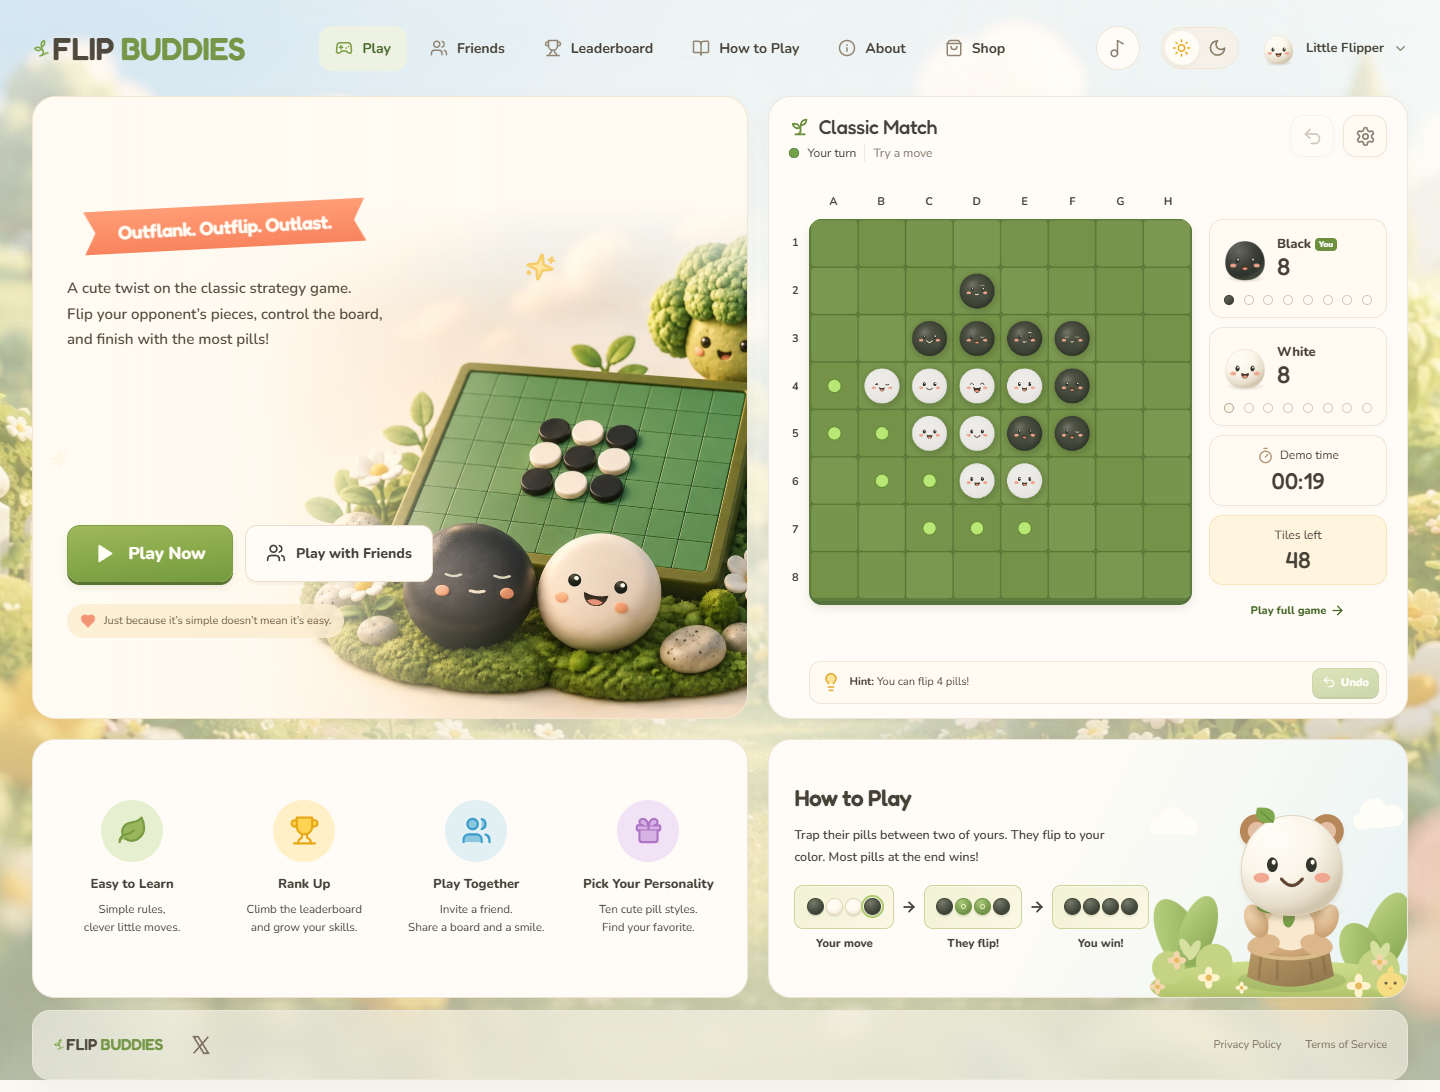
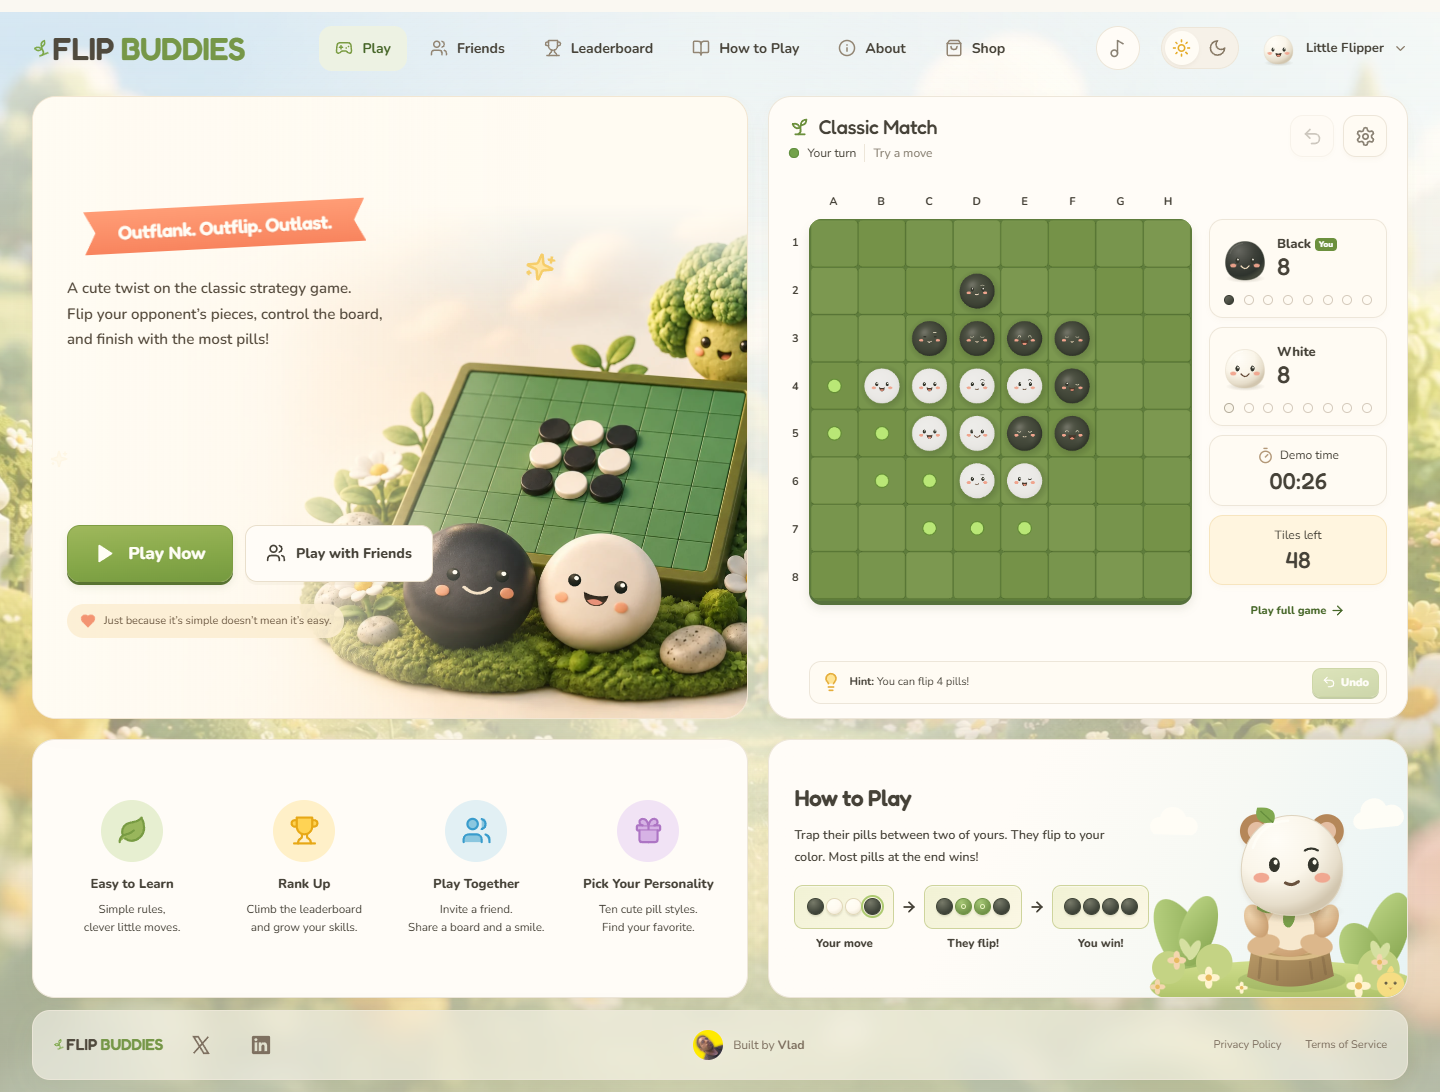
Restore Vlad footer credit and add LinkedIn link

diff --git a/src/components/SiteFooter.tsx b/src/components/SiteFooter.tsx
@@ -39,7 +39,22 @@ export default function SiteFooter({
             />
           </svg>
         </a>
+        <a
+          className="footer-x-link"
+          href="https://www.linkedin.com/in/vlachomir/"
+          target="_blank"
+          rel="noopener noreferrer"
+          aria-label="Vlad on LinkedIn"
+        >
+          <svg viewBox="0 0 24 24" width="22" height="22" fill="currentColor" aria-hidden="true">
+            <path d="M20.45 2H3.55C2.69 2 2 2.68 2 3.52v16.96c0 .84.69 1.52 1.55 1.52h16.9c.86 0 1.55-.68 1.55-1.52V3.52c0-.84-.69-1.52-1.55-1.52ZM7.93 18.75H4.98V9.2h2.95v9.55ZM6.45 7.9a1.71 1.71 0 1 1 0-3.42 1.71 1.71 0 0 1 0 3.42Zm12.3 10.85H15.8V14.1c0-1.11-.02-2.54-1.55-2.54-1.55 0-1.79 1.21-1.79 2.46v4.73H9.51V9.2h2.83v1.3h.04c.39-.74 1.36-1.53 2.79-1.53 2.99 0 3.54 1.97 3.54 4.53v5.25Z" />
+          </svg>
+        </a>
       </div>
+      <a className="footer-creator" href="https://x.com/deifosv" target="_blank" rel="noopener noreferrer">
+        <img src="/assets/vlad-pfp.jpg" alt="" width="32" height="32" loading="lazy" />
+        <span>Built by <strong>Vlad</strong></span>
+      </a>
       <nav className="footer-links" aria-label="Site information">
         <button onClick={() => onInformation("privacy")}>Privacy Policy</button>
         <button onClick={() => onInformation("terms")}>Terms of Service</button>

diff --git a/src/landing.css b/src/landing.css
@@ -236,6 +236,7 @@
   display: none;
 }
 .landing-footer.site-footer {
+  flex-wrap: wrap;
   min-height: 70px;
   padding: 12px 20px !important;
   color: #7e7060;
@@ -269,6 +270,27 @@
 .footer-x-link:hover {
   color: var(--green);
   background: var(--soft);
+}
+.footer-creator {
+  display: inline-flex;
+  align-items: center;
+  gap: 9px;
+  min-height: 44px;
+  color: inherit;
+  font-size: 12px;
+  text-decoration: none;
+  border-radius: 8px;
+  white-space: nowrap;
+}
+.footer-creator img {
+  border-radius: 50%;
+  object-fit: cover;
+  border: 1px solid var(--line);
+}
+.footer-creator:hover { color: var(--green); }
+.footer-creator:focus-visible, .footer-x-link:focus-visible {
+  outline: 2px solid var(--green);
+  outline-offset: 3px;
 }
 .footer-links {
   display: flex;
